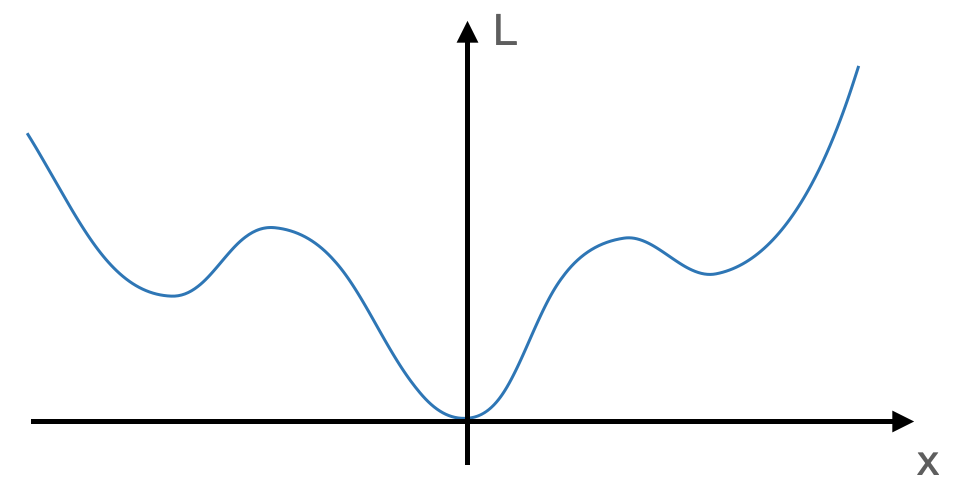
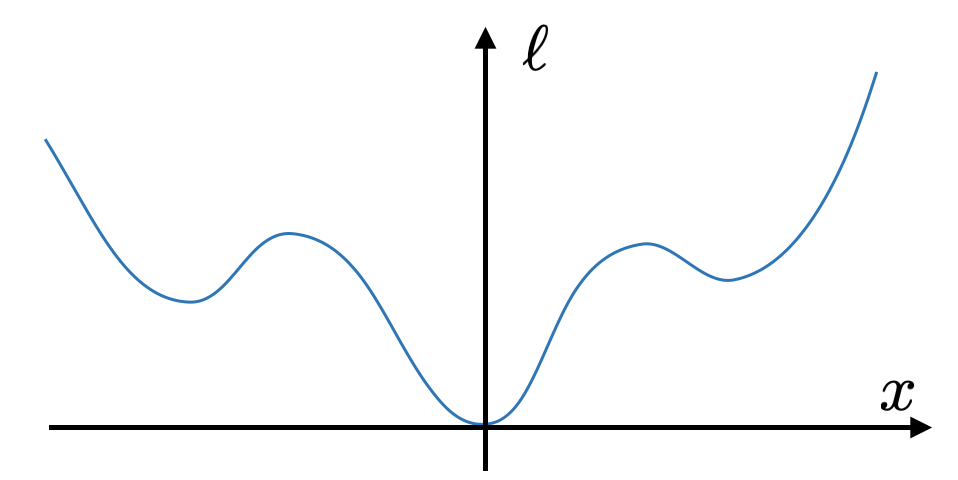
update gradient_flow exercise

diff --git a/lyapunov.html b/lyapunov.html
@@ -1427,14 +1427,14 @@ V = RegionOfAttraction(sys, context)
     <exercise><h1>Gradient Flow in Euclidean Space</h1>
 
       <p>We can use Lyapunov analysis to analyze the behavior of optimization algorithms like gradient descent.
-        Consider an objective function $L:\mathbf{R}^n\rightarrow \mathbf{R}$ with $L(x)\geq 0$ for all $x$, and we want to find $x$ that minimize $L(x)$. 
-        The gradient flow is a coninuous-time analog of gradient descent and is defined as $\dot{x} = -\frac{\partial L}{\partial x}$.
+        Consider an objective function $\ell:\mathbf{R}^n\rightarrow \mathbf{R}$ with $\ell(x)\geq 0$ for all $x$, and we want to find $x$ that minimize $\ell(x)$. 
+        The gradient flow is a coninuous-time analog of gradient descent and is defined as $\dot{x} = -\frac{\partial \ell}{\partial x}$.
         
         <ol type="a">
-          <li>Show that the objective function $L$ is a Lyapunov function of the gradient flow.</li>
+          <li>Show that the objective function $\ell(x)$ is a Lyapunov function of the gradient flow.</li>
   
           <li>We can use Lyapunov to argue that an optimization problem will converge to a global optimum, even if it is non-convex.
-            Suppose that the Lyapunov function $L$, has negative definite $\dot{L}$. Show that the objective function $L$ has a unique minimizer at the origin.</li>
+            Suppose that the Lyapunov function $\ell$, has negative definite $\dot{\ell}$. Show that the objective function $\ell$ has a unique minimizer at the origin.</li>
 
             <li>Consider the objective function in the figure below. Could this be a valid Lyapunov function for showing globally asymptotic stability?</li>
 
@@ -1443,7 +1443,7 @@ V = RegionOfAttraction(sys, context)
             <figcaption>Lyapunov function candidate for asymptotic stability.</figcaption>
           </figure>
           
-          <li>Consider the objective function $L(x) = x_1^4-8x_1^3+18x_1^2+x_2^2$ with $x\in\mathbf{R}^2$. Find the largest $\rho$ such that $\{x\mid L(x)<\rho \}$ is a valid region of attraction for the origin.</li>
+          <li>Consider the objective function $\ell(x) = x_1^4-8x_1^3+18x_1^2+x_2^2$ with $x\in\mathbf{R}^2$. Find the largest $\rho$ such that $\{x\mid \ell(x)<\rho \}$ is a valid region of attraction for the origin.</li>
         </ol>
     </exercise>
 
